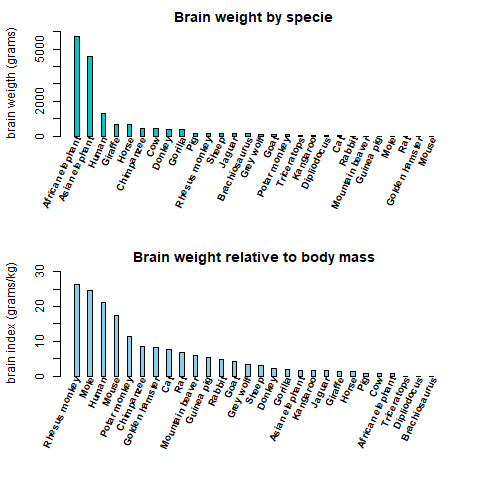
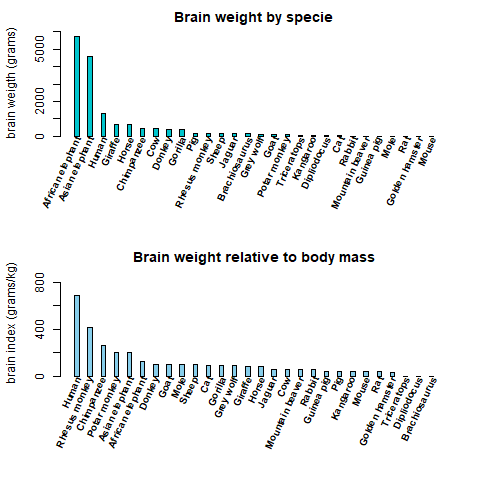
brain barplots corrected

Changed region(s): [[0.0938, 0.5938, 0.8438, 0.9375], [0.0625, 0.5312, 0.0938, 0.7188]]

diff --git a/README.md b/README.md
@@ -1292,16 +1292,16 @@ Because png files can be easily shared and viewed as e-mail attachments and inco
 ##  Another two awsome barplots
 
 ```R
-Create two awsome barplots
-
+# Create two awsome barplots
+library(MASS)
 par(mar=c(7, 4, 2, 2) + 0.2,mfrow=c(2,1))
 
-animals <- data.frame( "specie" = row.names(Animals),Animals,brain_index = Animals$brain/Animals$body)
+animals <- data.frame( "specie" = row.names(Animals),Animals,brain_index = Animals$brain/ (0.12*(Animals$body^0.67)))
 animals <- animals[with(animals,order(-brain)),]
 end_point <- 0.5 +nrow(animals) + nrow(animals) 
 barplot(animals$brain,main= "Brain weight by specie",xlab="",
         ylab= "brain weigth (grams)",col="turquoise3",space = 2,
-        ylim=c(0,6000)) 
+        ylim=c(0,max(animals$brain)+300)) 
 text(x = seq(2.5,86,by=3),adj=1,srt=65,xpd=T,par("usr")[3],cex=0.8,
           labels = as.character(animals$specie),font= 2)
 
@@ -1310,7 +1310,7 @@ animals <- animals[with(animals,order(-brain_index)),]
 
 barplot(animals$brain_index,main= "Brain weight relative to body mass",xlab="",
         ylab= "brain index (grams/kg)",col="skyblue",space = 2,
-         ylim=c(0,30)) 
+         ylim=c(0,max(animals$brain_index)+200)) 
 text(x = seq(2.5,86,by=3),adj=1,srt=65,xpd=T,par("usr")[3],cex=0.8,
      labels = as.character(animals$specie),font= 2)
 ```
